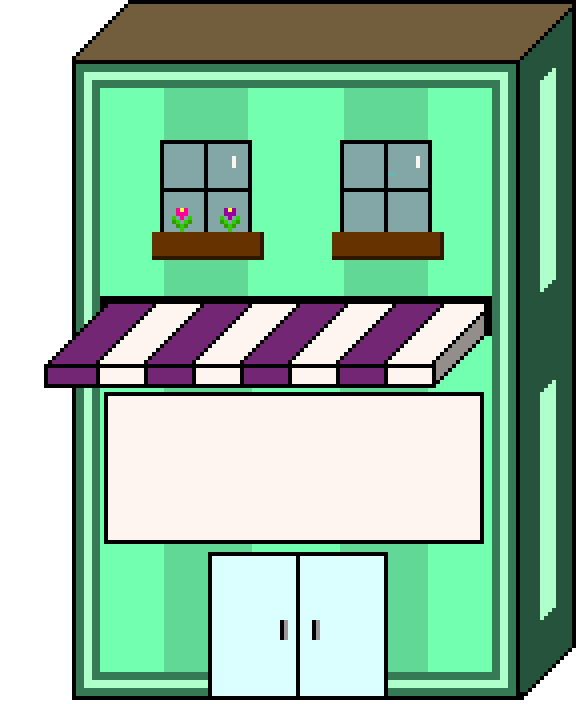
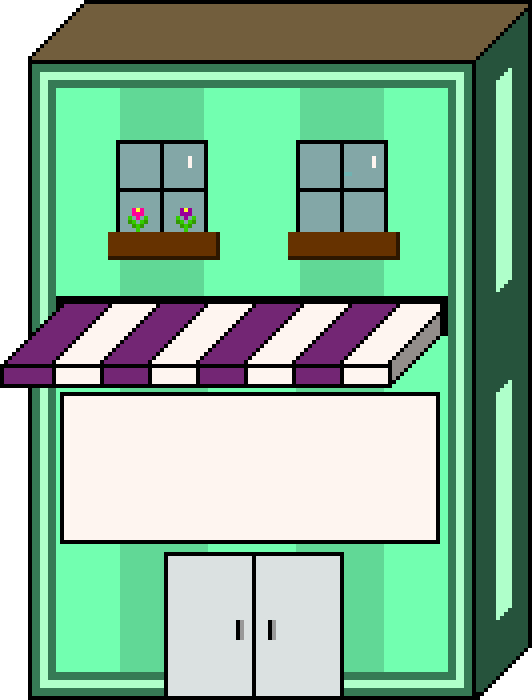
Drop in new building_2. Fix building positions after removing transparent pixels from original images.

diff --git a/public/static/css/main.css b/public/static/css/main.css
@@ -169,7 +169,7 @@ header .team{
 
 .feature{
   position: absolute;
-  bottom: 95px;
+  bottom: 99px;
   box-sizing: border-box;
   -moz-box-sizing: border-box;
 }
@@ -224,7 +224,7 @@ header .team{
 
 
 .feature:nth-child(2){
-  left: 417px;
+  left: 468px;
   width: 580px;
   height: 704px;
   background: transparent url('/static/images/building3_hifi.png') bottom left no-repeat;
@@ -232,12 +232,12 @@ header .team{
 
 .feature:nth-child(2) h3{
   bottom: 260px;
-  left: 162px;
+  left: 120px;
 }
 
 .feature:nth-child(2) p{
   bottom: 200px;
-  left: 130px;
+  left: 95px;
   width: 358px;
 }
 
